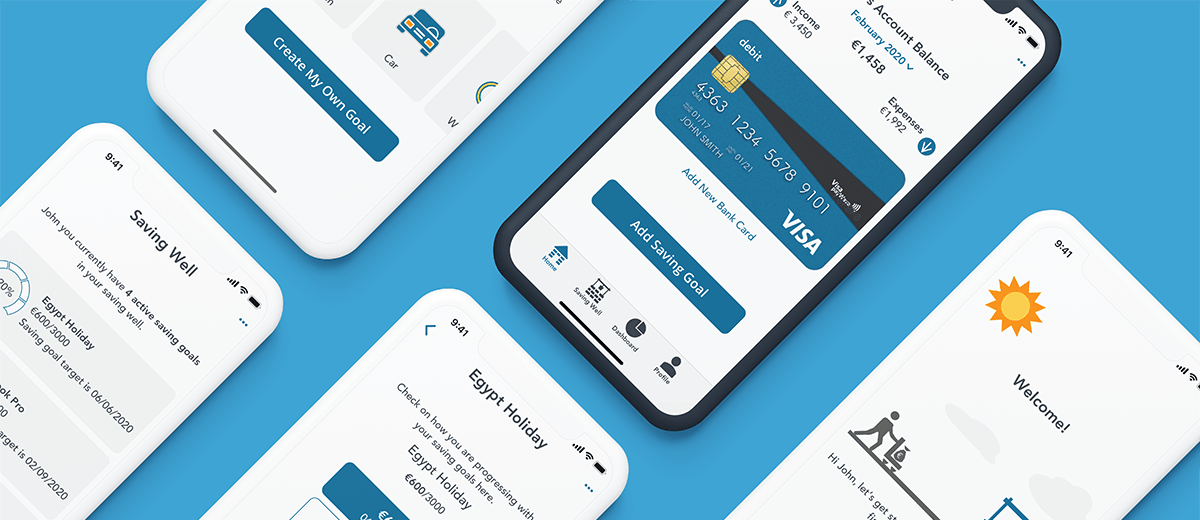
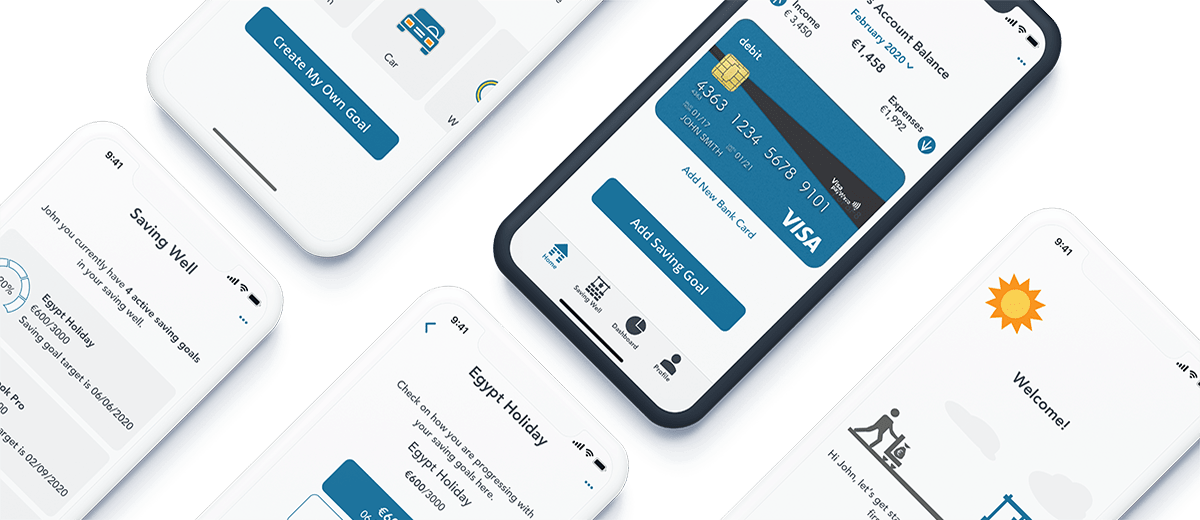
updating index images

diff --git a/index.html b/index.html
@@ -90,7 +90,7 @@
     <p class=" description ">A Dublin based Product Designer</p>
 <br>
      <p class="script_analytics ">
- With a background in analytics, business intelligence and software support.
+ With a background in data analytics and business intelligence.
       </p>
       <br>
       <p class="script">
@@ -115,11 +115,11 @@ I've worked for some of the largest multinationals in the world and I'm now
      <div class ="portfolio_scroll" id="portfolio"></div>
      
      
- <div class="row">
+<div class="row">
    <div class="col-xs-12 col-sm-12 col-md-12  table-top-padding no-gutter">
      <div class="righttrack">
      <a href="solace.html">
-     <img src="assets/images/solaceindexgrey.png" style="background-color:#FFF;" class="img-responsive" alt="Solace">
+     <img src="assets/images/solaceindex_new.png" style="background-color:#FFF;" class="img-responsive" alt="Solace">
      
    <div class="righttrack-text-content  visible-sm visible-md visible-lg">
     <h1>'Solace'</h1>
@@ -148,6 +148,7 @@ I've worked for some of the largest multinationals in the world and I'm now
      
         </div> <!-- close row -->
  
+  
  
   <div class="row" >
    
@@ -217,7 +218,7 @@ I've worked for some of the largest multinationals in the world and I'm now
    <div class="col-xs-12 col-sm-12 col-md-12  table-top-padding no-gutter">
      <div class="portfolio">
      <a href="savewell.html">
-     <img src="assets/images/savewell-min.png" style="background-color:#FFF;" class="img-responsive" alt="Splash">
+     <img src="assets/images/savewell.png" style="background-color:#FFF;" class="img-responsive" alt="Splash">
      
    <div class="work-text-content visible-sm visible-md visible-lg ">
     <h1>'Save Well'</h1>
